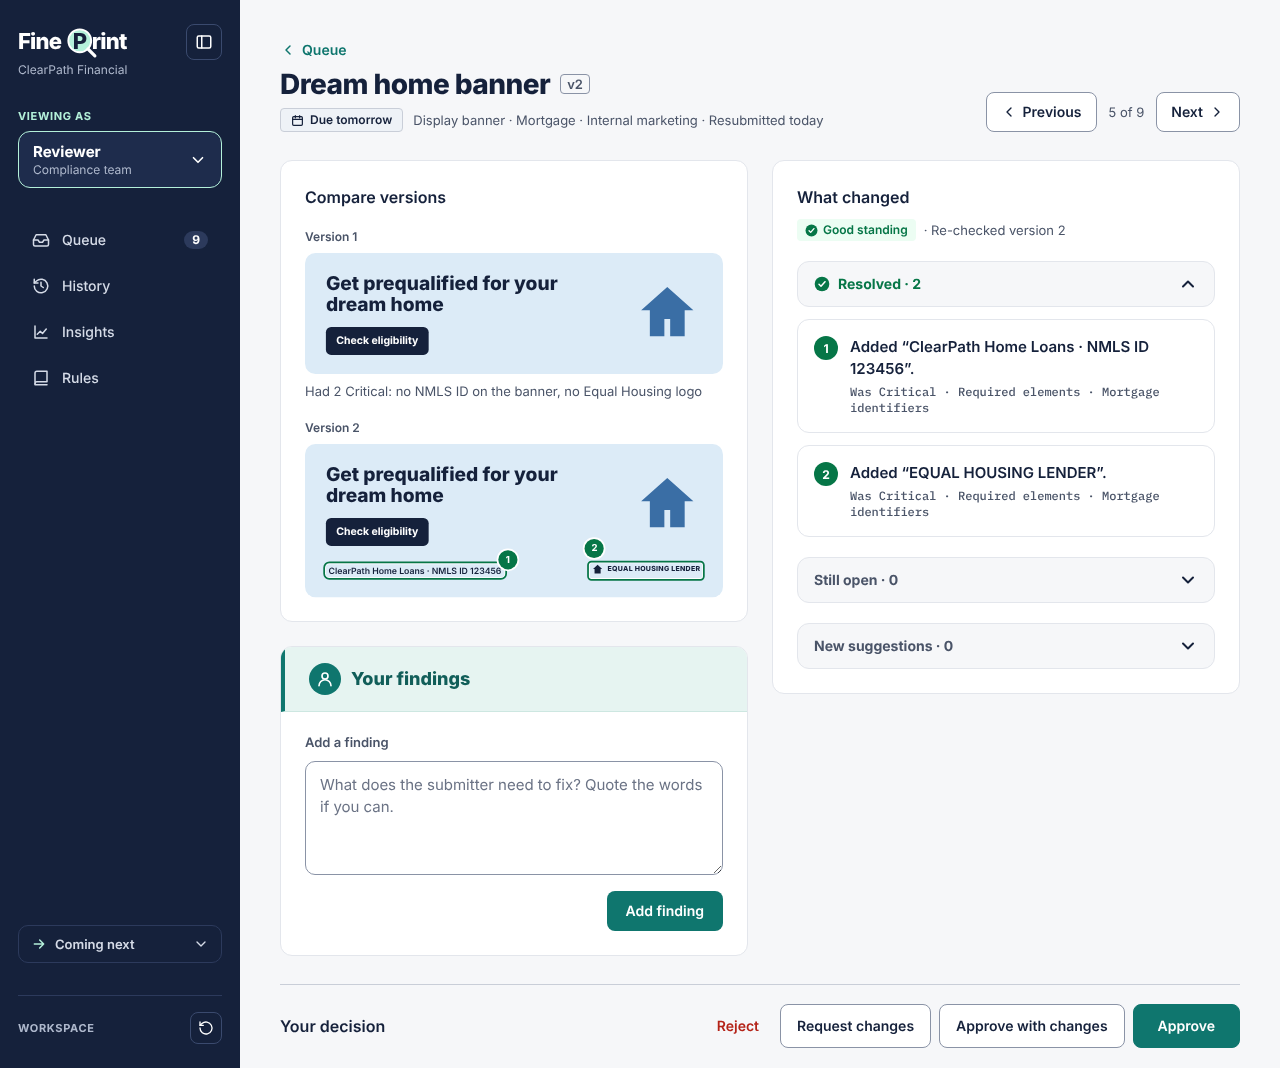
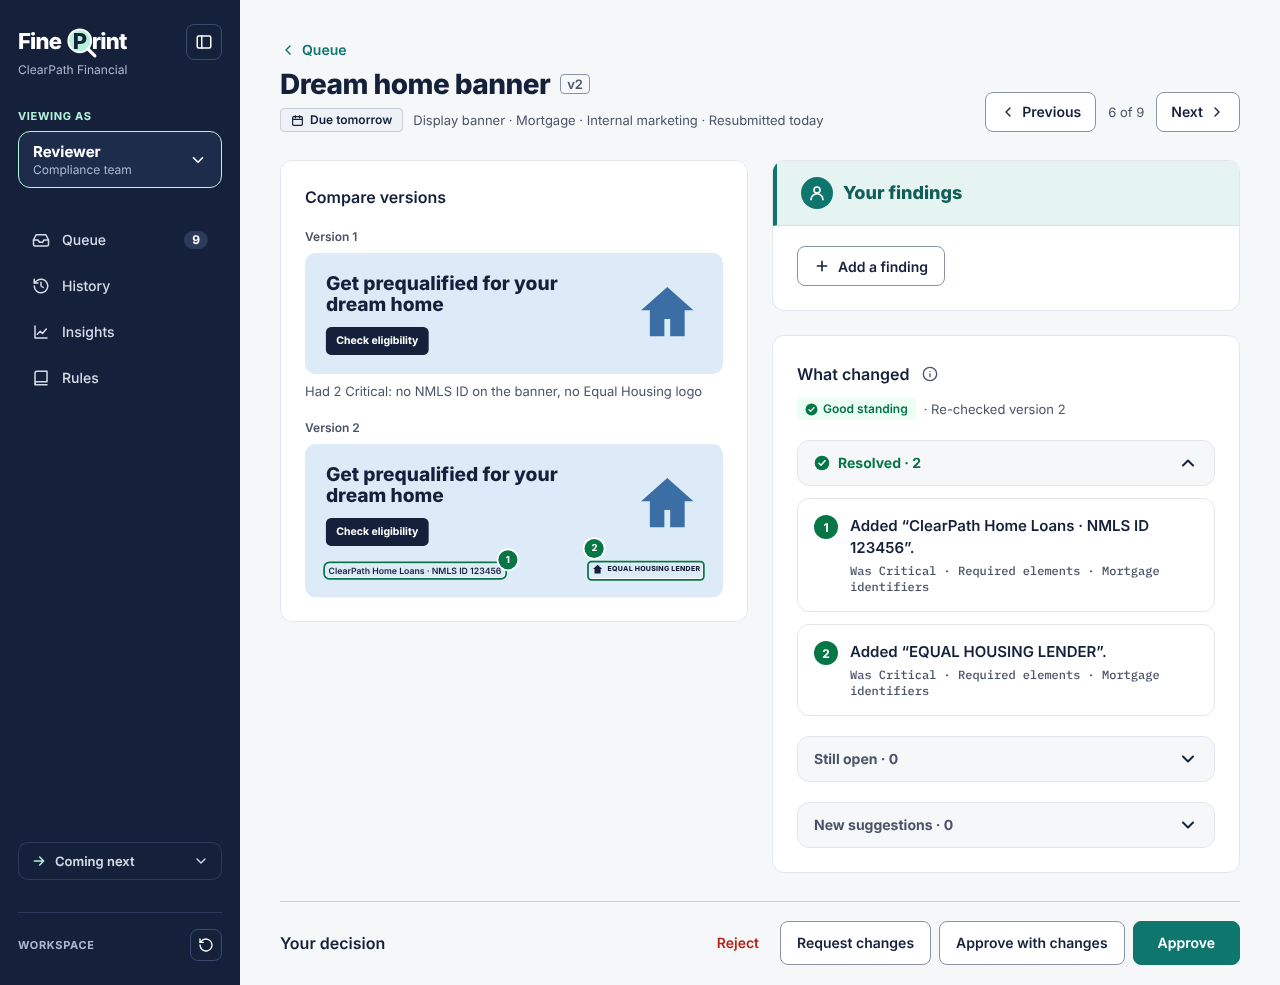
Queue sorts by Updated; calmer toasts; Updated marks per role
- The Queue sorts by Updated by default, and Review's Previous / n of 9
  / Next follows the same order. Due is still a sortable column.
- The submit toast has no deadline ("Your reviewer takes it from
  here."); a past due date is orange, not red, with no "Overdue".
- Updated marks are kept per role, so the reviewer opening an ad
  doesn't clear it for the marketer, and a change in the same second as
  your first visit still counts.
- Tests follow the queue's actual order instead of fixed ids.

Claude-Session: https://claude.ai/code/session_01GajTyz92bBm6dN9cgoMqN2

diff --git a/e2e/review.spec.ts b/e2e/review.spec.ts
@@ -1,5 +1,5 @@
 import { expect, test } from '@playwright/test'
-import { resetData, setRole } from './helpers.ts'
+import { nextAfter, queueOrder, resetData, setRole } from './helpers.ts'
 
 test.use({ viewport: { width: 1280, height: 900 } })
 
@@ -9,9 +9,10 @@ test.beforeEach(async ({ page }) => {
 })
 
 test('the review page is prepared: groups, pins, rule info', async ({ page }) => {
+  const order = await queueOrder(page)
   await page.goto('/review/3')
   await expect(page.getByRole('heading', { level: 1, name: 'Fall personal loan' })).toBeVisible()
-  await expect(page.getByText('3 of 9')).toBeVisible()
+  await expect(page.getByText(`${order.findIndex((r) => r.id === 3) + 1} of 9`)).toBeVisible()
   await expect(page.getByText('Due today')).toBeVisible()
   await expect(page.getByRole('button', { name: /Critical · 1/ })).toHaveAttribute('aria-expanded', 'true')
   await expect(page.getByRole('button', { name: /Caution · 2/ })).toHaveAttribute('aria-expanded', 'true')
@@ -46,6 +47,7 @@ test('keep, edit, dismiss with a reason, restore', async ({ page }) => {
 })
 
 test('reviewer requests changes on Fall personal loan', async ({ page }) => {
+  const order = await queueOrder(page)
   await page.goto('/review/3')
   await page.locator('[data-finding="1"]').getByRole('button', { name: 'Keep' }).click()
   await page.getByRole('button', { name: 'Add a finding' }).click()
@@ -59,8 +61,9 @@ test('reviewer requests changes on Fall personal loan', async ({ page }) => {
   await dialog.getByRole('button', { name: 'Request changes' }).click()
   await expect(page.getByText('Changes requested ·')).toBeVisible()
   // The next ad in the queue opens in the same tab.
-  await expect(page).toHaveURL(/\/review\/4$/)
-  await expect(page.getByRole('heading', { level: 1, name: 'Rate check email' })).toBeVisible()
+  const next = nextAfter(order, 3)
+  await expect(page).toHaveURL(new RegExp(`/review/${next}$`))
+  await expect(page.getByRole('heading', { level: 1, name: order.find((r) => r.id === next)!.name })).toBeVisible()
   await expect(page.getByRole('link', { name: /Queue/ }).first()).toBeVisible()
   await expect(page.locator('.fp-nav-badge')).toHaveText('8')
 
@@ -73,9 +76,10 @@ test('reviewer requests changes on Fall personal loan', async ({ page }) => {
 })
 
 test('approve shows Undo, and Undo restores everything', async ({ page }) => {
+  const order = await queueOrder(page)
   await page.goto('/review/4')
   await page.getByRole('button', { name: 'Approve', exact: true }).click()
-  await expect(page).toHaveURL(/\/review\/5$/)
+  await expect(page).toHaveURL(new RegExp(`/review/${nextAfter(order, 4)}$`))
   await page.getByRole('button', { name: 'Undo' }).click()
   await expect(page.getByText('Decision undone')).toBeVisible()
   await expect(page).toHaveURL(/\/review\/4$/)
@@ -84,13 +88,15 @@ test('approve shows Undo, and Undo restores everything', async ({ page }) => {
 })
 
 test('previous and next follow the queue order', async ({ page }) => {
-  await page.goto('/review/3')
+  const order = await queueOrder(page)
+  await page.goto(`/review/${order[2].id}`)
+  await expect(page.getByText('3 of 9')).toBeVisible()
   await page.getByRole('link', { name: 'Next' }).click()
   await expect(page.getByText('4 of 9')).toBeVisible()
   await page.getByRole('link', { name: 'Previous' }).click()
   await page.getByRole('link', { name: 'Previous' }).click()
   await expect(page.getByText('2 of 9')).toBeVisible()
-  await expect(page.getByRole('heading', { level: 1, name: 'Card payoff story' })).toBeVisible()
+  await expect(page.getByRole('heading', { level: 1, name: order[1].name })).toBeVisible()
 })
 
 test('what changed on a resubmission', async ({ page }) => {

diff --git a/src/lib/seen.ts b/src/lib/seen.ts
@@ -5,7 +5,12 @@ import { useEffect } from 'react'
  * when you first came (or last reset), and when you last opened each ad.
  */
 const SINCE_KEY = 'fp_seen_since'
-const SEEN_KEY = 'fp_seen'
+
+/** Each role has its own marks: a reviewer opening an ad doesn't mean the marketer has seen the change. */
+function seenKey(): string {
+  const role = /(?:^|;\s*)fp_role=marketer/.test(document.cookie) ? 'marketer' : 'reviewer'
+  return `fp_seen_${role}`
+}
 
 function read<T>(key: string, fallback: T): T {
   try {
@@ -27,21 +32,27 @@ function write(key: string, value: unknown) {
 function since(): string {
   const saved = read<string | null>(SINCE_KEY, null)
   if (saved) return saved
-  const now = new Date().toISOString()
+  const now = wholeSecond()
   write(SINCE_KEY, now)
   return now
 }
 
+/** The server keeps times to the second; a change in the same second as this must still count as newer. */
+function wholeSecond(): string {
+  return new Date(Math.floor(Date.now() / 1000) * 1000 - 1000).toISOString()
+}
+
 /** Start over: nothing counts as updated before now (after a reset, the sample data is all new). */
 export function resetSeen() {
-  write(SINCE_KEY, new Date().toISOString())
-  write(SEEN_KEY, {})
+  write(SINCE_KEY, wholeSecond())
+  write('fp_seen_marketer', {})
+  write('fp_seen_reviewer', {})
 }
 
 /** True when the ad changed after you last opened it (and after your first visit). */
 export function isUpdated(adId: number, updatedAt: string | null | undefined): boolean {
   if (!updatedAt) return false
-  const seen = read<Record<string, string>>(SEEN_KEY, {})[adId] ?? since()
+  const seen = read<Record<string, string>>(seenKey(), {})[adId] ?? since()
   return Date.parse(updatedAt) > Date.parse(seen)
 }
 
@@ -49,8 +60,8 @@ export function isUpdated(adId: number, updatedAt: string | null | undefined): b
 export function useMarkSeen(adId: number | null, updatedAt: string | null | undefined) {
   useEffect(() => {
     if (adId === null) return
-    const seen = read<Record<string, string>>(SEEN_KEY, {})
+    const seen = read<Record<string, string>>(seenKey(), {})
     seen[adId] = new Date(Math.max(Date.now(), updatedAt ? Date.parse(updatedAt) : 0)).toISOString()
-    write(SEEN_KEY, seen)
+    write(seenKey(), seen)
   }, [adId, updatedAt])
 }

diff --git a/src/components/AdTable.tsx b/src/components/AdTable.tsx
@@ -23,12 +23,14 @@ interface ViewConfig {
   defaultOrder: 'asc' | 'desc'
   /** A second date column: both My ads and the Queue show Updated and Due. */
   secondTitle?: string
+  /** Which date column sorts the table at first: the main one, or the second (the Queue starts by Updated). */
+  defaultSort?: 'date' | 'second'
   empty: string
 }
 
 const VIEWS: Record<TableView, ViewConfig> = {
   'my-ads': { statusTitle: 'Status', statusKey: 'status', dateTitle: 'Updated', secondTitle: 'Due', defaultOrder: 'desc', empty: 'No ads yet.' },
-  queue: { statusTitle: 'Auto check', statusKey: 'auto_check', dateTitle: 'Due', secondTitle: 'Updated', defaultOrder: 'asc', empty: 'Queue cleared. Go get a snack.' },
+  queue: { statusTitle: 'Auto check', statusKey: 'auto_check', dateTitle: 'Due', secondTitle: 'Updated', defaultSort: 'second', defaultOrder: 'desc', empty: 'Queue cleared. Go get a snack.' },
   history: { statusTitle: 'Decision', statusKey: 'status', dateTitle: 'Closed', defaultOrder: 'desc', empty: 'No approved ads yet.' },
 }
 
@@ -72,10 +74,10 @@ function myAdsSubLine(row: AdRow, today: string): string {
   }
 }
 
-/** A due date: Today, Tomorrow, or a day; red when it has passed. */
+/** A due date: Today, Tomorrow, or a day; a past one is in the "needs action" color, not alarm red. */
 function DueDate({ day, today }: { day: string; today: string }) {
   if (daysBetween(today, day) < 0) {
-    return <span style={{ color: '#B42318', fontWeight: 600 }}>Overdue · {shortDate(day, today)}</span>
+    return <span style={{ color: '#A15C07', fontWeight: 600 }}>{shortDate(day, today)}</span>
   }
   return <>{dayLabel(day, today)}</>
 }
@@ -280,7 +282,7 @@ export function AdTable({
   const [, setSearchParams] = useSearchParams()
   const [search, setSearch] = useState('')
   const [q, setQ] = useState('')
-  const [sort, setSort] = useState<{ key: 'name' | 'date' | 'second' | 'check'; order: 'asc' | 'desc' }>({ key: 'date', order: config.defaultOrder })
+  const [sort, setSort] = useState<{ key: 'name' | 'date' | 'second' | 'check'; order: 'asc' | 'desc' }>({ key: config.defaultSort ?? 'date', order: config.defaultOrder })
   const [pageSize, setPageSize] = useState(10)
   const params = query({
     view,

diff --git a/e2e/tables.spec.ts b/e2e/tables.spec.ts
@@ -1,5 +1,5 @@
 import { expect, test } from '@playwright/test'
-import { resetData, setRole } from './helpers.ts'
+import { queueOrder, resetData, setRole } from './helpers.ts'
 
 test.use({ viewport: { width: 1280, height: 900 } })
 
@@ -11,15 +11,14 @@ function stat(page: import('@playwright/test').Page, key: string) {
   return page.locator(`[data-stat="${key}"] [data-stat-value]`)
 }
 
-test('queue: 9 waiting, 4 due today, sorted by due date', async ({ page }) => {
+test('queue: 9 waiting, 4 due today, most recently updated first', async ({ page }) => {
   await setRole(page, 'reviewer')
   await page.goto('/queue')
   await expect(stat(page, 'waiting')).toHaveText('9')
   await expect(stat(page, 'due_today')).toHaveText('4')
   const names = page.locator('.fp-ad-link')
   await expect(names).toHaveCount(9)
-  await expect(names.nth(0)).toHaveText('Best loans of 2026')
-  await expect(names.nth(2)).toHaveText('Fall personal loan')
+  await expect(names).toHaveText((await queueOrder(page)).map((r) => r.name))
   await expect(page.getByText('Showing 1–9 of 9')).toBeVisible()
   await expect(page.getByRole('link', { name: /^Review / })).toHaveCount(9)
   await page.screenshot({ path: 'screenshots/m3-queue.png', fullPage: true })
@@ -54,7 +53,8 @@ test('search, with an empty state', async ({ page }) => {
   await page.getByRole('textbox', { name: 'Search ads' }).fill('zzz')
   await expect(page.getByText('No ads match your search.')).toBeVisible()
   await page.getByRole('textbox', { name: 'Search ads' }).fill('card')
-  await expect(page.locator('.fp-ad-link')).toHaveText(['Card payoff story', 'Student card post'])
+  await expect(page.locator('.fp-ad-link')).toHaveCount(2)
+  expect((await page.locator('.fp-ad-link').allInnerTexts()).sort()).toEqual(['Card payoff story', 'Student card post'])
 })
 
 test('history: computed numbers and pagination', async ({ page }) => {

diff --git a/src/pages/PreCheckPage.tsx b/src/pages/PreCheckPage.tsx
@@ -26,7 +26,6 @@ import {
   type Numbered,
 } from '../findings/parts'
 import { api, ApiError } from '../lib/api'
-import { dayPhrase } from '../lib/dates'
 import { sentText, type AdDetail, type Finding, type Version } from '../lib/detail'
 import { PRODUCT_LABEL } from '../lib/labels'
 import type { Layer } from '../lib/types'
@@ -342,7 +341,7 @@ function PreCheckScreen({ detail, reload }: { detail: AdDetail; reload: () => vo
   const { ad, rules } = detail
   const navigate = useNavigate()
   const { message } = AntApp.useApp()
-  const { refresh, today } = useWorkspace()
+  const { refresh } = useWorkspace()
   const editable = ad.status === 'draft' || ad.status === 'changes_required'
   const working: Version = (editable && detail.draft) || detail.current
   // Edits are marked against the copy the marketer started from.
@@ -493,7 +492,7 @@ function PreCheckScreen({ detail, reload }: { detail: AdDetail; reload: () => vo
     try {
       const result = await api.post<{ due_date: string; version: number }>(`/api/ads/${ad.id}/submit`)
       refresh()
-      message.success(`Sent for review${result.version > 1 ? ` as version ${result.version}` : ''}. You'll hear back by ${dayPhrase(result.due_date, today)}.`)
+      message.success(`Sent for review${result.version > 1 ? ` as version ${result.version}` : ''}. Your reviewer takes it from here.`)
       navigate('/my-ads')
     } catch (e) {
       message.error(e instanceof ApiError ? e.message : "Couldn't submit. Try again.")

diff --git a/e2e/loop.spec.ts b/e2e/loop.spec.ts
@@ -110,7 +110,7 @@ test('full loop: fix, resubmit, what changed, approve, history', async ({ page }
 
   // 2. The marketer submits version 2.
   await precheck.getByRole('button', { name: 'Submit' }).click()
-  await expect(precheck.getByText(/Sent for review as version 2\. You'll hear back by /)).toBeVisible()
+  await expect(precheck.getByText(/Sent for review as version 2\. Your reviewer takes it from here\./)).toBeVisible()
   await expect(precheck).toHaveURL(/\/my-ads$/)
   const row = precheck.locator('tr', { hasText: 'Holiday debt email' })
   await expect(row.getByText('Pending')).toBeVisible()
@@ -171,7 +171,7 @@ test('a disclosure too small to read is made readable in Pre-check, and What cha
   await expect(page.locator('article', { hasText: 'The disclosure is too small to read' }).getByRole('button', { name: 'Kept' })).toBeVisible()
   await page.getByRole('button', { name: 'Request changes' }).click()
   await page.getByRole('dialog').getByRole('button', { name: 'Request changes' }).click()
-  await expect(page).toHaveURL(/\/review\/4$/)
+  await expect(page).not.toHaveURL(/\/review\/3$/)
 
   await setRole(page, 'marketer')
   await page.goto('/ads/3/pre-check')

diff --git a/e2e/fresh-tabs.spec.ts b/e2e/fresh-tabs.spec.ts
@@ -38,3 +38,21 @@ test('an ad that changed since you last opened it is marked Updated, until you o
   await page.reload()
   await expect(page.locator('.fp-updated-chip')).toHaveCount(0)
 })
+
+test('the reviewer opening an ad does not clear it for the marketer', async ({ page }) => {
+  await resetData(page)
+  await setRole(page, 'marketer')
+  await page.goto('/my-ads')
+  await expect(page.locator('tbody tr.ant-table-row')).toHaveCount(8)
+  // In the same browser, the reviewer opens Fall personal loan and sends it back.
+  await setRole(page, 'reviewer')
+  await page.goto('/review/3')
+  await page.getByRole('button', { name: 'Request changes' }).click()
+  await page.getByRole('dialog').getByRole('textbox').fill('Fix the rate claim.')
+  await page.getByRole('dialog').getByRole('button', { name: 'Request changes' }).click()
+  await expect(page).not.toHaveURL(/\/review\/3$/)
+  // The marketer still sees it as updated.
+  await setRole(page, 'marketer')
+  await page.goto('/my-ads')
+  await expect(page.locator('tbody tr', { hasText: 'Fall personal loan' }).locator('.fp-updated-chip')).toHaveText('Updated')
+})

diff --git a/e2e/helpers.ts b/e2e/helpers.ts
@@ -8,3 +8,16 @@ export async function resetData(page: Page) {
 export async function setRole(page: Page, role: 'reviewer' | 'marketer') {
   await page.context().addCookies([{ name: 'fp_role', value: role, url: 'http://localhost:5173' }])
 }
+
+/** The Queue's order (most recently updated first), as the table and Review's Previous / Next use it. */
+export async function queueOrder(page: Page): Promise<Array<{ id: number; name: string }>> {
+  const res = await page.request.get('/api/ads?view=queue&page_size=20')
+  const data = (await res.json()) as { rows: Array<{ id: number; name: string }> }
+  return data.rows.map((r) => ({ id: r.id, name: r.name }))
+}
+
+/** The ad after this one in the Queue, wrapping around, as Review opens it after a decision. */
+export function nextAfter(order: Array<{ id: number }>, id: number): number {
+  const index = order.findIndex((r) => r.id === id)
+  return order[(index + 1) % order.length].id
+}

diff --git a/e2e/tour.spec.ts b/e2e/tour.spec.ts
@@ -24,7 +24,8 @@ test('README tour', async ({ page }) => {
   // 3. Request changes.
   await page.getByRole('button', { name: 'Request changes' }).click()
   await page.getByRole('dialog').getByRole('button', { name: 'Request changes' }).click()
-  await expect(page).toHaveURL(/\/review\/4$/)
+  await expect(page).toHaveURL(/\/review\/\d+$/)
+  await expect(page).not.toHaveURL(/\/review\/3$/)
 
   // 4. Switch to Marketer.
   await page.locator('.fp-role-button').click()

diff --git a/server/repo.py b/server/repo.py
@@ -16,7 +16,7 @@ VIEW_WHERE = {
     "history": "a.status IN ('approved', 'approved_with_changes')",
 }
 DATE_COLUMN = {"my-ads": "a.updated_at", "queue": "a.due_date", "history": "a.closed_at"}
-DEFAULT_SORT = {"my-ads": ("date", "desc"), "queue": ("date", "asc"), "history": ("date", "desc")}
+DEFAULT_SORT = {"my-ads": ("date", "desc"), "queue": ("second", "desc"), "history": ("date", "desc")}
 
 OPEN_AUTO = "f.origin = 'auto' AND f.state != 'dismissed' AND f.ad_version_id = v.id"
 ROW_SELECT = f"""
@@ -115,8 +115,8 @@ def _attach_row_details(db: Db, view: str, rows: list[dict]) -> None:
 
 
 def queue_order(db: Db) -> list[int]:
-    return [r["id"] for r in db.all(f"SELECT id, name, due_date FROM ({ROW_SELECT} WHERE a.status = 'pending') "
-                                     "ORDER BY due_date ASC, name COLLATE NOCASE ASC, id")]
+    """The Queue's own order, most recently updated first, so Review's "3 of 9" matches the table."""
+    return [r["id"] for r in db.all("SELECT id FROM ads WHERE status = 'pending' ORDER BY updated_at DESC, id DESC")]
 
 
 def attention_order(db: Db) -> list[int]:

diff --git a/tests/server/test_seed.py b/tests/server/test_seed.py
@@ -21,11 +21,11 @@ def test_queue_counts(db):
     assert sum(1 for r in queue["rows"] if r["due_date"] == today) == 4
 
 
-def test_queue_order_matches_wireframe(db):
-    names = [r["name"] for r in repo.list_ads(db, "queue")["rows"]]
-    assert names[:5] == ["Best loans of 2026", "Card payoff story", "Fall personal loan", "Rate check email",
-                         "Dream home banner"]
-    assert names.index("Fall personal loan") == 2  # "3 of 9"
+def test_queue_order_is_most_recently_updated_first(db):
+    rows = repo.list_ads(db, "queue")["rows"]
+    assert [r["updated_at"] for r in rows] == sorted((r["updated_at"] for r in rows), reverse=True)
+    # Review's Previous / "n of 9" / Next follows the same order as the table.
+    assert [r["id"] for r in rows] == repo.queue_order(db)[:len(rows)]
 
 
 def test_my_ads(db):

diff --git a/tests/server/test_review.py b/tests/server/test_review.py
@@ -47,8 +47,9 @@ def test_request_changes_sends_kept_and_reviewer_findings(db):
     actions.add_reviewer_finding(db, 3, "Pick another photo.", NOW)
     with pytest.raises(ActionError):
         actions.decide(db, 3, "changes_required", "", NOW)
+    order = repo.queue_order(db)
     result = actions.decide(db, 3, "changes_required", "Please fix the rate claim.", NOW)
-    assert result["next"] == 4  # Rate check email follows Fall personal loan
+    assert result["next"] == order[order.index(3) + 1]  # the next ad in the Queue's order
     ad = db.one("SELECT * FROM ads WHERE id = 3")
     assert ad["status"] == "changes_required" and ad["closed_at"] is None
     sent = [f for f in current_findings(db, 3) if f["sent_to_submitter"]]
